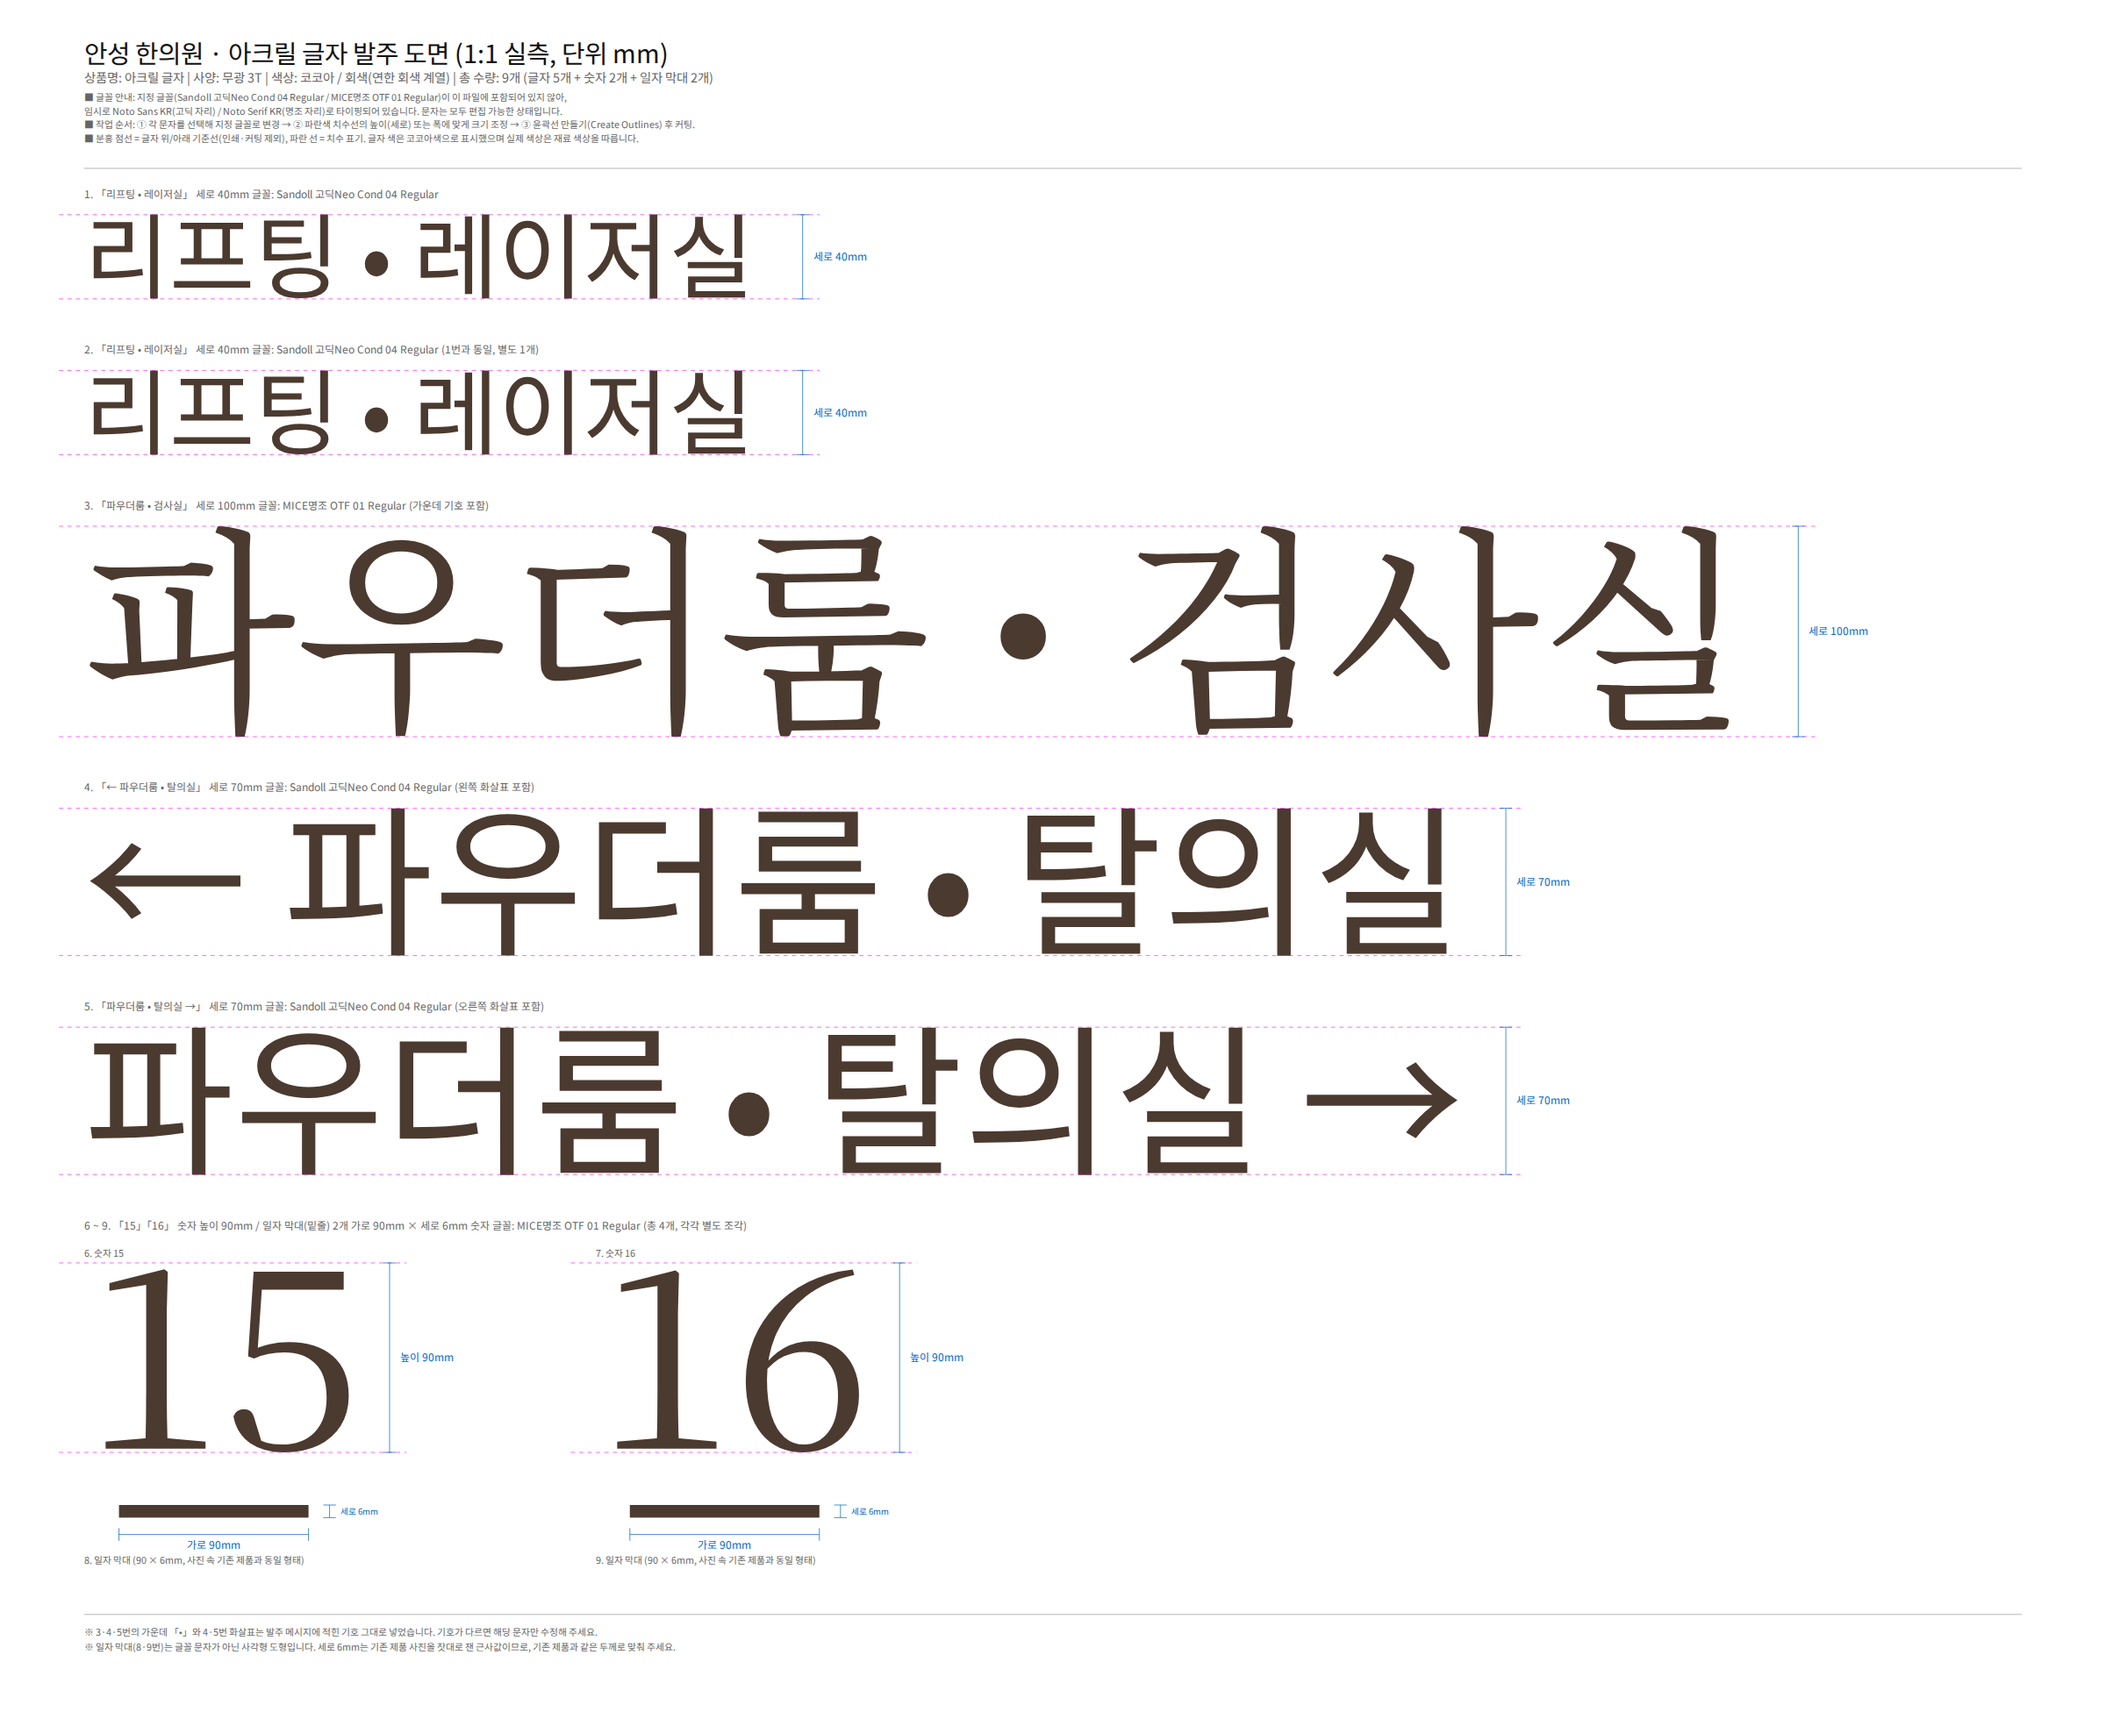
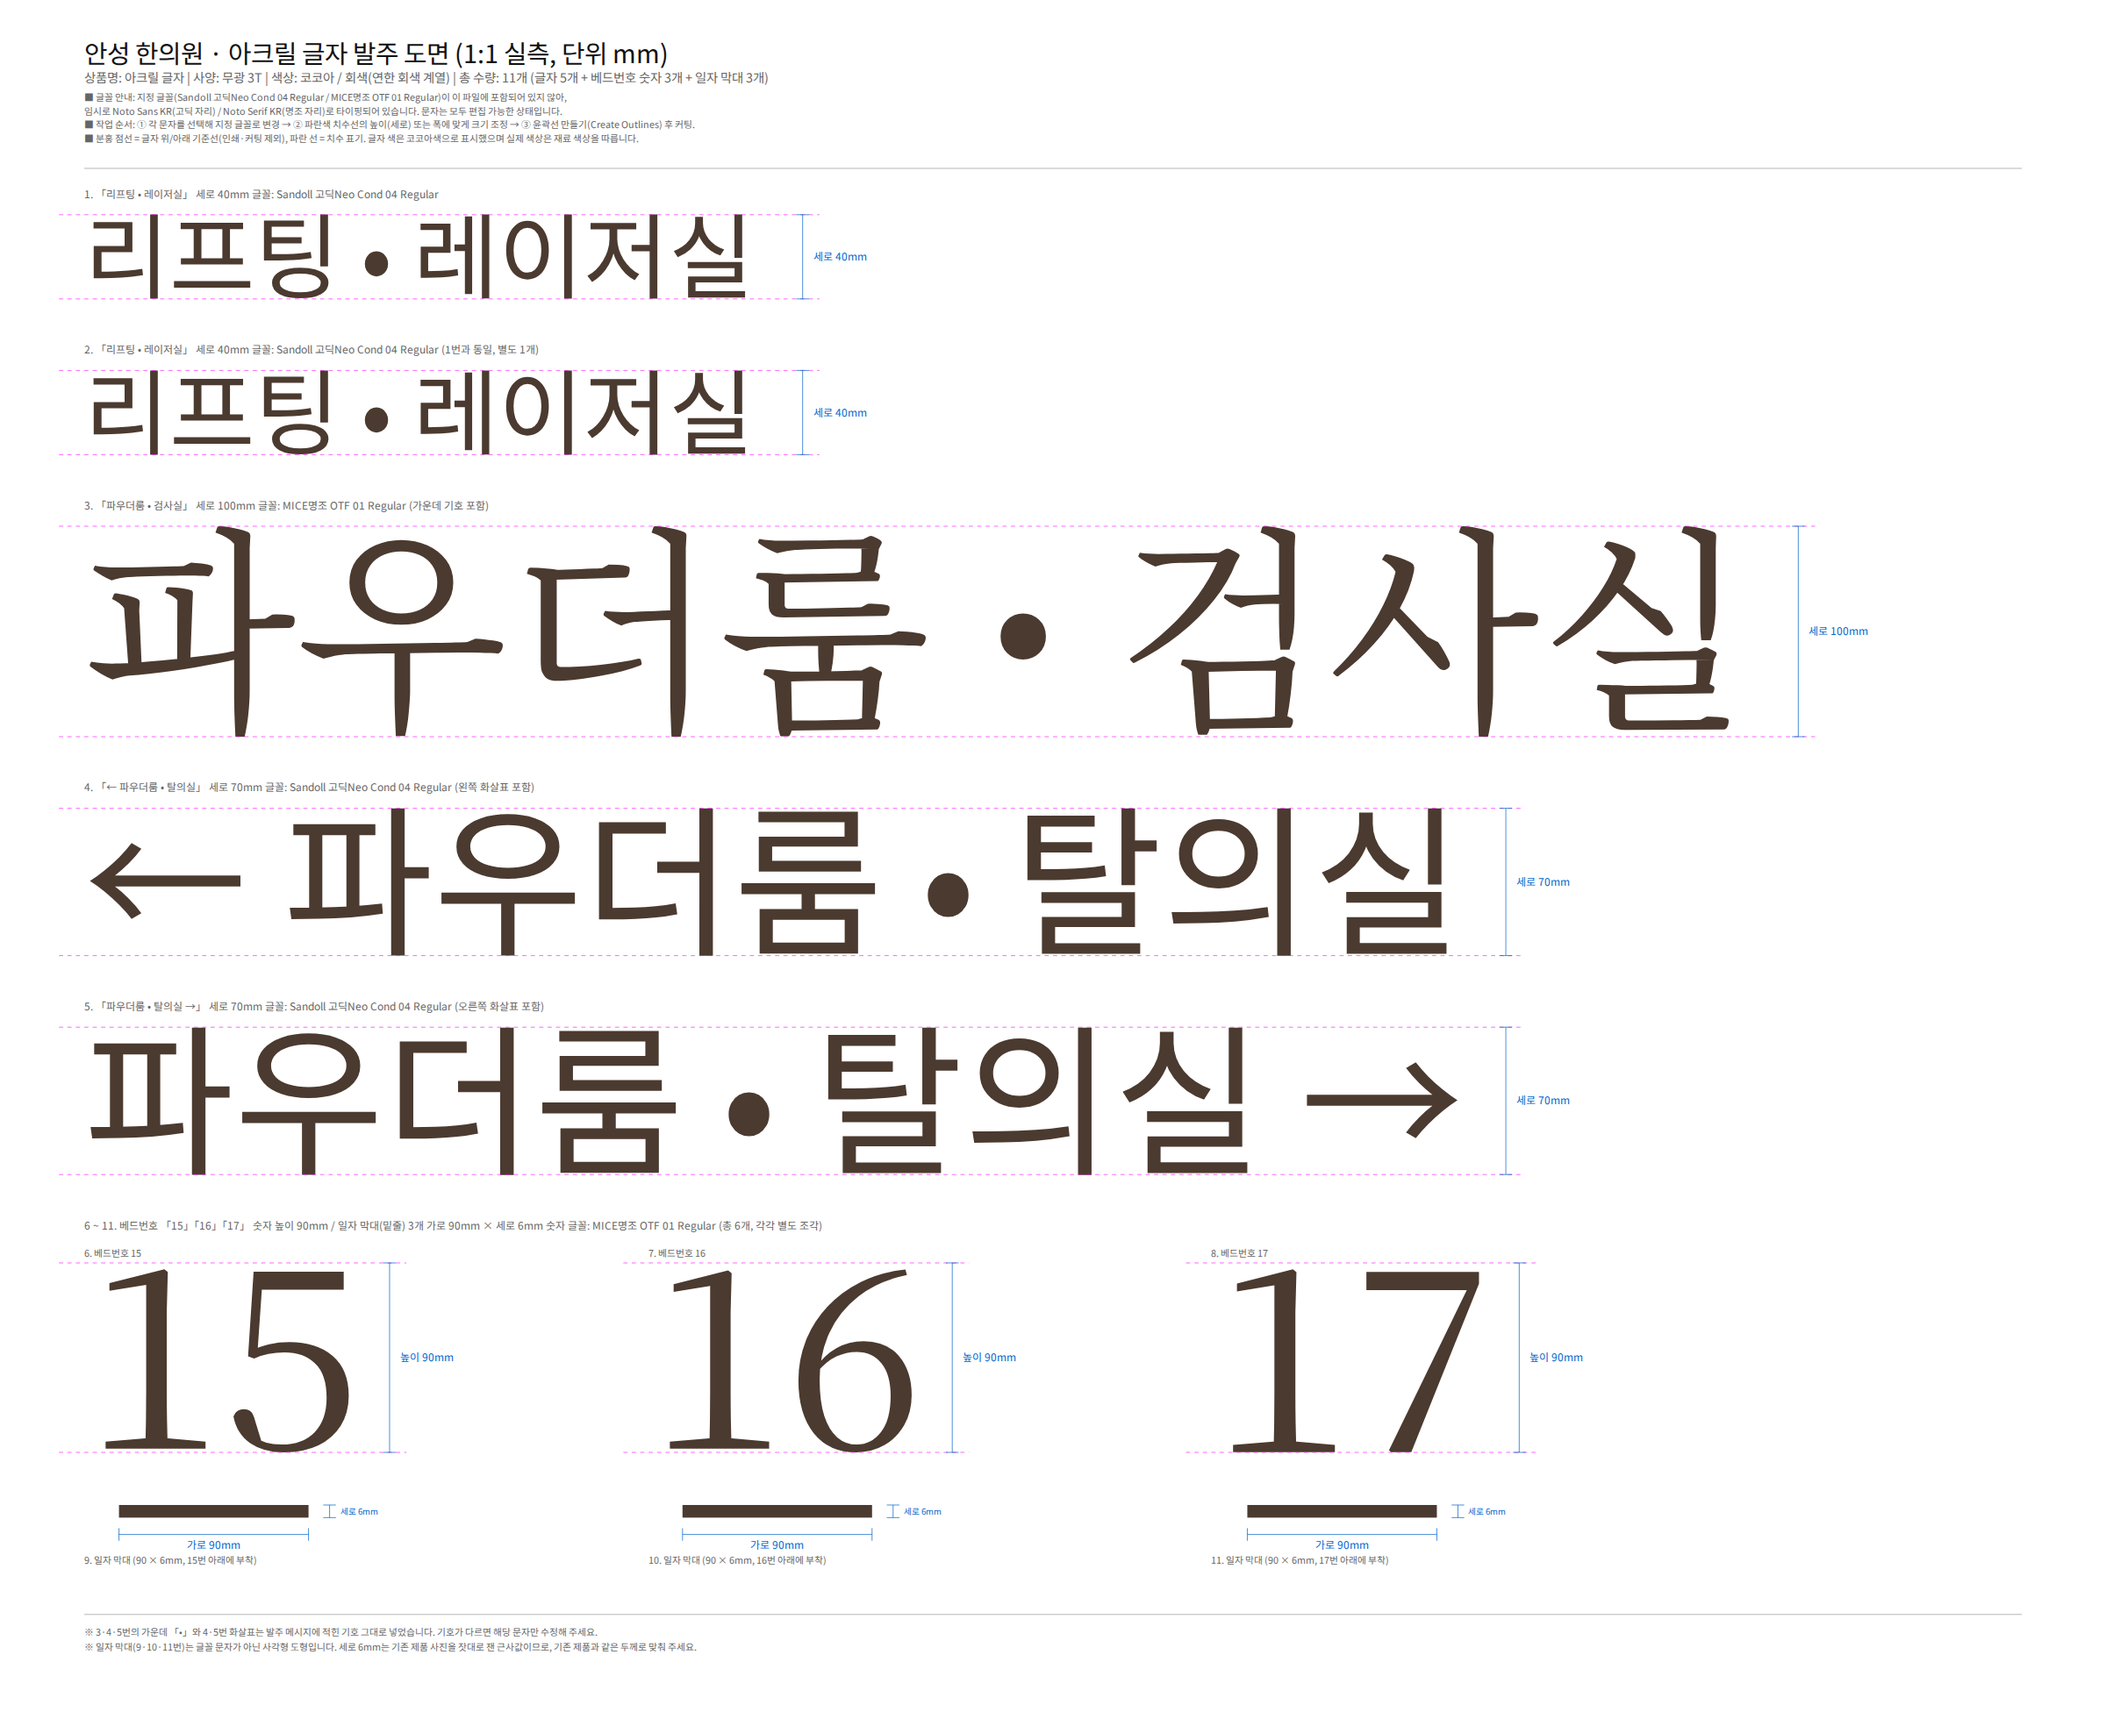
docs: 아크릴 글자 도면에 베드번호 17과 밑줄 추가
베드번호를 15/16/17 세 개로 늘리고 각각 아래에 90 x 6mm 일자 막대를
배치함. 총 조각 수 9개에서 11개로 변경.

Claude-Session: https://claude.ai/code/session_01Vp3V63HRwpGkKQ9XPHHhgr

diff --git a/docs/사인물/아크릴글자/README.md b/docs/사인물/아크릴글자/README.md
@@ -1,6 +1,6 @@
 # 아크릴 글자 발주 도면
 
-브로애드(아크릴 글자 업체) 발주용 1:1 실측 도면입니다. 도면 크기 1000 × 816 mm, 단위 mm.
+브로애드(아크릴 글자 업체) 발주용 1:1 실측 도면입니다. 총 11개 조각 (글자 5개, 베드번호 숫자 3개, 일자 막대 3개). 도면 크기 1000 × 816 mm, 단위 mm.
 
 - `아크릴글자_발주도면.ai` — 일러스트레이터에서 여는 파일 (PDF 호환 형식, 문자 편집 가능)
 - `아크릴글자_발주도면.pdf` — 같은 내용의 PDF (누구나 열어 볼 수 있음)
